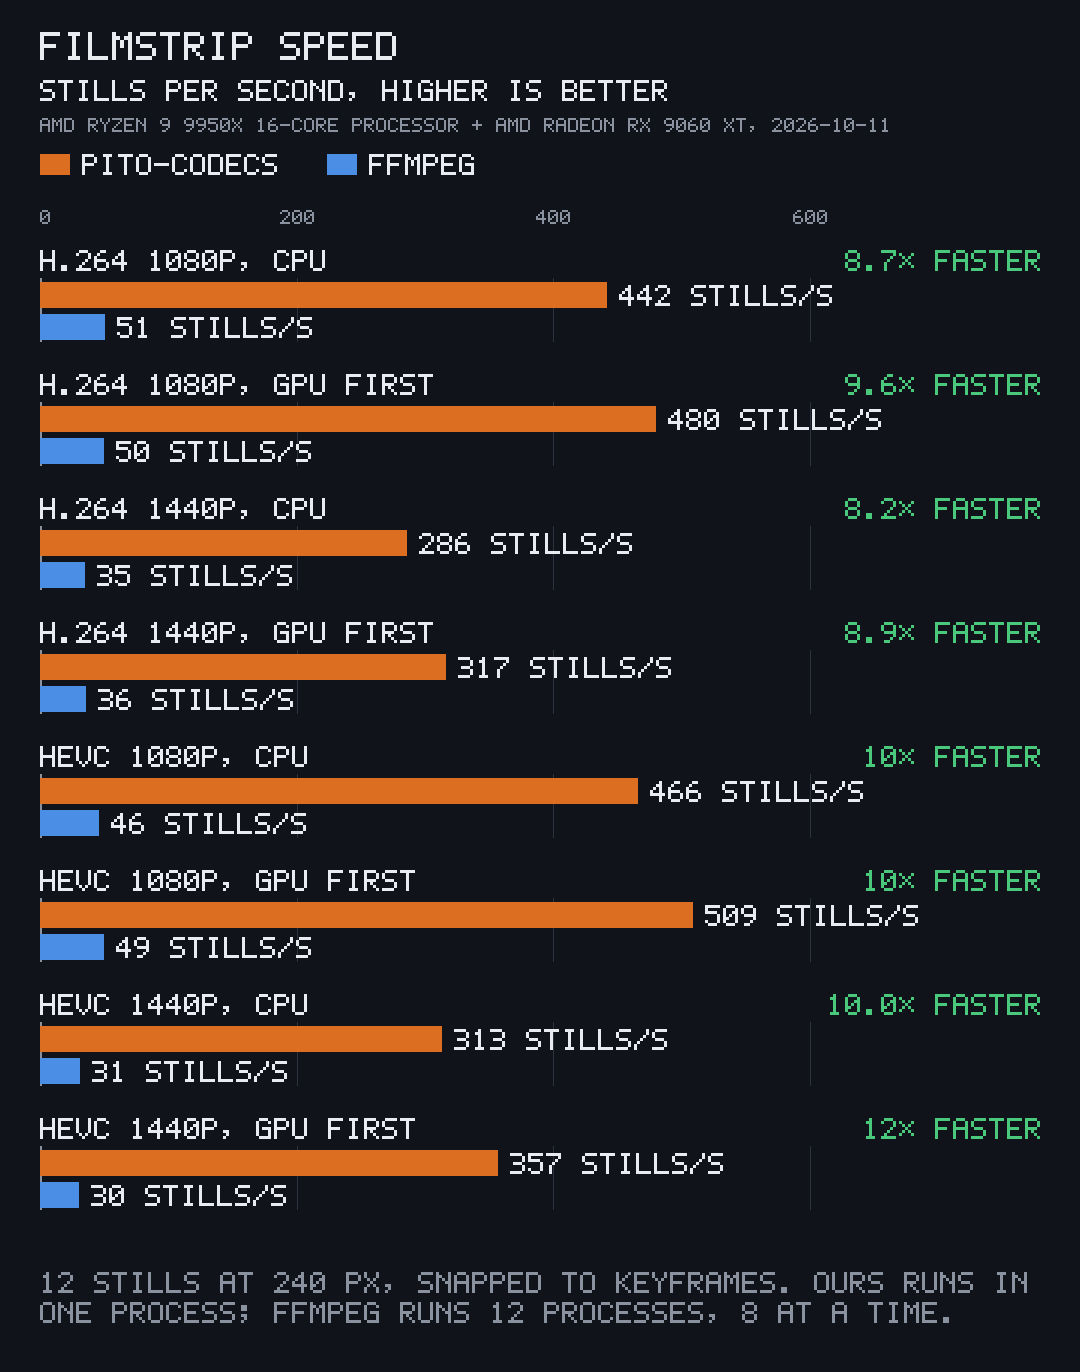
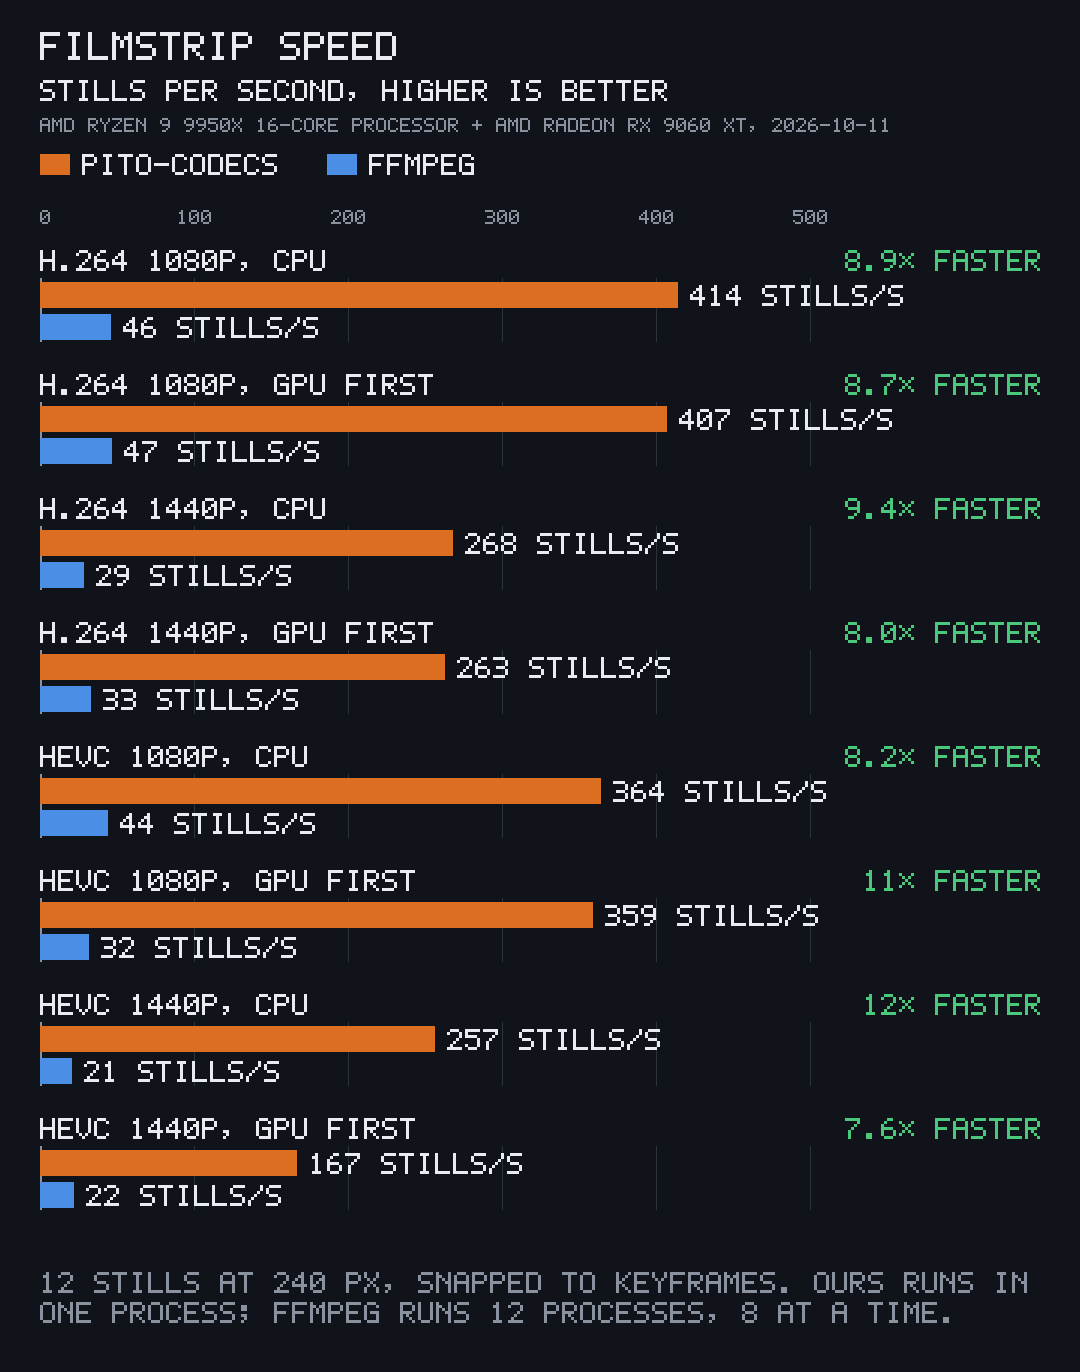
pito-codecs 1.0.1: one benchmark run on the merged lanes behind every chart, the table, Against ffmpeg and the Status

diff --git a/examples/bench.rs b/examples/bench.rs
@@ -1563,7 +1563,7 @@ fn mark(id: &str) -> &'static str {
     }
 }
 
-const X264_NOTE: &str = "* NOT LIKE FOR LIKE: LIBX264 RUNS HAND-WRITTEN ASSEMBLY, WHILE OUR CPU H.264 ENCODER IS RUST WITH NO HAND-WRITTEN SIMD YET.";
+const X264_NOTE: &str = "* NOT LIKE FOR LIKE: LIBX264 RUNS HAND-WRITTEN ASSEMBLY, WHILE OUR CPU H.264 ENCODER IS RUST WITH NO HAND-WRITTEN SIMD.";
 const CUT_NOTE: &str = "† NOT LIKE FOR LIKE: OUR EXPORT IS FRAME-ACCURATE; IT COPIES THE MIDDLE OF EACH PIECE AND RE-ENCODES THE FRAMES BETWEEN EACH CUT AND ITS NEAREST KEYFRAME (540 OF 780 FRAMES AT 1080P HERE). FFMPEG'S STREAM COPY ENCODES NOTHING AND CUTS ON KEYFRAMES, SO IT IS NOT FRAME-ACCURATE. FFMPEG'S RE-ENCODE IS FRAME-ACCURATE AND RE-ENCODES EVERY FRAME WITH LIBX264 VERYFAST, CRF 18.";
 
 fn strip(label: &str, word: &str) -> String {

diff --git a/README.md b/README.md
@@ -10,7 +10,7 @@ Works on Linux x86-64 and arm64, Windows x86-64 and macOS on Apple Silicon; CI t
 
 ## Status
 
-`v1.0.0`: every format below decodes and encodes, on Linux, Windows and macOS, and the API is settled. Opus speech encoding (SILK and hybrid) is marked experimental below: it decodes clean but doesn't sound as good as libopus.
+`v1.0.1`: every format below decodes and encodes, on Linux, Windows and macOS, and the API is settled. Opus speech encoding (SILK and hybrid) is marked experimental below: it decodes clean but doesn't sound as good as libopus.
 
 | Part | Decode | Encode |
 | --- | --- | --- |
@@ -33,21 +33,21 @@ Every number here comes from the one benchmark run that the Speed section descri
 
 Where pito-codecs is faster:
 
-- **Time to first frame:** 8.7× to 19.8× faster at 1440p, CPU or GPU (4.9 ms against 97.6 ms for H.264 on the CPU; ffmpeg's time includes starting its process).
-- **Filmstrip stills:** 8.2× to 11.7× faster.
-- **Smart-cut export against a full re-encode:** 1.6× to 1.7× faster, frame-accurate on both sides.
-- **GPU decode and encode (VA-API):** 1.1× to 1.2× faster on 9 of the 14 GPU rows, about the same on 5.
-- **Scaling:** 1.6× to 2.2× faster.
-- **Loudness (EBU R128):** 5.8× faster.
-- **AAC encode:** 1.7× faster.
+- **Time to first frame:** 7.4× to 21.5× faster at 1440p, CPU or GPU (4.1 ms against 87.4 ms for H.264 on the CPU; ffmpeg's time includes starting its process).
+- **Filmstrip stills:** 7.6× to 12.4× faster.
+- **Smart-cut export against a full re-encode:** 1.7× to 2.9× faster, frame-accurate on both sides.
+- **GPU decode and encode (VA-API):** 1.1× to 1.3× faster on 8 of the 14 GPU rows, about the same on 6.
+- **Scaling:** 1.7× to 2.6× faster.
+- **Loudness (EBU R128):** 5.7× faster.
+- **AAC encode:** 1.8× faster.
 
-Where ffmpeg still wins:
+Where ffmpeg wins:
 
-- **CPU H.264 decode:** ffmpeg is 1.3× to 1.7× faster (2540 against 1942 fps at 1080p, all threads).
-- **CPU HEVC decode:** on one thread about the same at 1080p, ours 1.1× faster at 1440p; on all threads ours 1.1× slower at 1080p, ours 1.5× slower at 1440p.
-- **CPU H.264 encode against x264:** libx264 is 1.5× to 3.3× faster (medium and veryfast presets).
-- **AAC decode:** ffmpeg is 1.7× faster.
-- **Smart-cut export against a stream copy:** ffmpeg's copy is 5.0× to 6.6× faster, but it encodes nothing and cuts only on keyframes, so it isn't frame-accurate.
+- **CPU H.264 decode:** ffmpeg is 1.3× to 1.5× faster (2551 against 1959 fps at 1080p, all threads).
+- **CPU HEVC decode:** about the same on one thread; on all threads ours is 1.1× slower at 1080p and 1.6× slower at 1440p.
+- **CPU H.264 encode against x264:** libx264 is 1.5× to 3.4× faster (medium and veryfast presets).
+- **AAC decode:** ffmpeg is 1.9× faster.
+- **Smart-cut export against a stream copy:** ffmpeg's copy is 5.8× to 6.0× faster, but it encodes nothing and cuts only on keyframes, so it isn't frame-accurate.
 - **Not in this run:** VP9 encode speed and Opus speech (SILK and hybrid) encode quality aren't benchmarked here; Opus speech encode is marked experimental.
 
 ## What it is
@@ -105,7 +105,7 @@ Add it as a git dependency at a tag, with the features you need (all are on by d
 
 ```toml
 [dependencies]
-pito-codecs = { git = "https://github.com/gmrdad82/pito-codecs", tag = "v1.0.0", default-features = false, features = ["h264", "mp4"] }
+pito-codecs = { git = "https://github.com/gmrdad82/pito-codecs", tag = "v1.0.1", default-features = false, features = ["h264", "mp4"] }
 ```
 
 | Feature | What it holds |
@@ -190,13 +190,13 @@ The front tries the GPU first and our own CPU code second, for every decode and 
 
 ## Speed
 
-Each pair below was measured back to back against the system ffmpeg on the same file, in one run on 2026-10-11 at commit `91d2582`:
+Each pair below was measured back to back against the system ffmpeg on the same file, in one run on 2026-10-11 at commit `415391d`:
 
 - **CPU:** AMD Ryzen 9 9950X (16 cores).
 - **GPU:** AMD Radeon RX 9060 XT on Mesa 26.2 radeonsi through VA-API, on Linux.
 - **ffmpeg:** 9.0.1.
 
-The input is 20 s of NASA's public-domain "A Message of Resilience from the International Space Station" (720p60), scaled to 1080p and 1440p and encoded with libx264 at CRF 20 and libx265 at CRF 23; the audio is NASA's public-domain solstice interview. The command is `pgpu run -- cargo run --release --example bench -- --runs 1`, which writes `tmp/bench/results.json` and every chart below; `--charts-only` redraws the charts from that file. The machine's load average was 6.09 at the start, so the absolute numbers are floors.
+The input is 20 s of NASA's public-domain "A Message of Resilience from the International Space Station" (720p60), scaled to 1080p and 1440p and encoded with libx264 at CRF 20 and libx265 at CRF 23; the audio is NASA's public-domain solstice interview. The command is `pgpu run -- cargo run --release --example bench -- --runs 1`, which writes `tmp/bench/results.json` and every chart below; `--charts-only` redraws the charts from that file. The machine was shared with other work (load average 4.5 at the start, up to 18 during the run), so the absolute numbers are floors; 17 rows that another GPU job disturbed (H.264 1080p VA-API encode, the filmstrips, the smart-cut exports and the scales) were measured again right after with `--only` into the same results file.
 
 ![Speed against ffmpeg, per job](docs/images/bench-speedup.png)
 
@@ -212,55 +212,55 @@ The chart above shows each job as times faster or slower than ffmpeg, on a log s
 
 | Job | pito-codecs | ffmpeg | pito-codecs is |
 | --- | --- | --- | --- |
-| H.264 1080p decode, CPU, 1 thread | 327 fps | 567 fps | 1.7× slower |
-| H.264 1080p decode, CPU, all threads | 1942 fps | 2540 fps | 1.3× slower |
-| HEVC 1080p decode, CPU, 1 thread | 456 fps | 435 fps | about the same |
-| HEVC 1080p decode, CPU, all threads | 1546 fps | 1729 fps | 1.1× slower |
-| H.264 1440p decode, CPU, 1 thread | 194 fps | 321 fps | 1.7× slower |
-| H.264 1440p decode, CPU, all threads | 1189 fps | 1609 fps | 1.4× slower |
-| HEVC 1440p decode, CPU, 1 thread | 260 fps | 244 fps | 1.1× faster |
-| HEVC 1440p decode, CPU, all threads | 825 fps | 1250 fps | 1.5× slower |
-| H.264 1080p decode, VA-API, frames stay on the GPU | 1150 fps | 1122 fps | about the same |
-| H.264 1080p decode, VA-API, frames read back | 842 fps | 711 fps | 1.2× faster |
-| HEVC 1080p decode, VA-API, frames stay on the GPU | 1202 fps | 1200 fps | about the same |
-| HEVC 1080p decode, VA-API, frames read back | 804 fps | 689 fps | 1.2× faster |
-| H.264 1440p decode, VA-API, frames stay on the GPU | 1140 fps | 1100 fps | about the same |
-| H.264 1440p decode, VA-API, frames read back | 513 fps | 480 fps | 1.1× faster |
-| HEVC 1440p decode, VA-API, frames stay on the GPU | 1163 fps | 1102 fps | 1.1× faster |
-| HEVC 1440p decode, VA-API, frames read back | 475 fps | 442 fps | 1.1× faster |
-| H.264 1080p encode, CPU, CRF 23, against libx264 medium * | 195 fps | 299 fps | 1.5× slower |
-| H.264 1080p encode, CPU, CRF 23, against libx264 veryfast * | 195 fps | 651 fps | 3.3× slower |
-| H.264 1080p encode, VA-API, QP 23 | 727 fps | 611 fps | 1.2× faster |
-| HEVC 1080p encode, VA-API, QP 23 | 843 fps | 698 fps | 1.2× faster |
-| H.264 1440p encode, CPU, CRF 23, against libx264 medium * | 126 fps | 184 fps | 1.5× slower |
-| H.264 1440p encode, CPU, CRF 23, against libx264 veryfast * | 127 fps | 393 fps | 3.1× slower |
-| H.264 1440p encode, VA-API, QP 23 | 422 fps | 369 fps | 1.1× faster |
-| HEVC 1440p encode, VA-API, QP 23 | 550 fps | 479 fps | 1.1× faster |
-| H.264 1440p GPU transcode, frames stay on the GPU | 316 fps | 305 fps | about the same |
-| HEVC 1440p GPU transcode, frames stay on the GPU | 385 fps | 376 fps | about the same |
-| H.264 1440p time to first frame, CPU (ffmpeg includes starting its process) | 4.9 ms | 97.6 ms | 19.8× faster |
-| H.264 1440p time to first frame, GPU (ffmpeg includes starting its process) | 10.8 ms | 94.1 ms | 8.7× faster |
-| HEVC 1440p time to first frame, CPU (ffmpeg includes starting its process) | 7.3 ms | 103.6 ms | 14.2× faster |
-| HEVC 1440p time to first frame, GPU (ffmpeg includes starting its process) | 10.7 ms | 96.1 ms | 8.9× faster |
-| H.264 1080p filmstrip, 12 stills at 240 px, CPU | 442 stills/s | 51 stills/s | 8.7× faster |
-| H.264 1080p filmstrip, 12 stills at 240 px, GPU first | 480 stills/s | 50 stills/s | 9.6× faster |
-| H.264 1440p filmstrip, 12 stills at 240 px, CPU | 286 stills/s | 35 stills/s | 8.2× faster |
-| H.264 1440p filmstrip, 12 stills at 240 px, GPU first | 317 stills/s | 36 stills/s | 8.9× faster |
-| HEVC 1080p filmstrip, 12 stills at 240 px, CPU | 466 stills/s | 46 stills/s | 10.2× faster |
-| HEVC 1080p filmstrip, 12 stills at 240 px, GPU first | 509 stills/s | 49 stills/s | 10.3× faster |
-| HEVC 1440p filmstrip, 12 stills at 240 px, CPU | 313 stills/s | 31 stills/s | 10.0× faster |
-| HEVC 1440p filmstrip, 12 stills at 240 px, GPU first | 357 stills/s | 30 stills/s | 11.7× faster |
-| Smart-cut export 1080p, 3 cuts, against ffmpeg re-encoding every frame (both frame-accurate) † | 15.2× real time | 9.6× real time | 1.6× faster |
-| Smart-cut export 1080p, 3 cuts, against ffmpeg's stream copy (keyframe cuts only, not frame-accurate) † | 15.2× real time | 75.5× real time | 5.0× slower |
-| Smart-cut export 1440p, 3 cuts, against ffmpeg re-encoding every frame (both frame-accurate) † | 10.2× real time | 5.8× real time | 1.7× faster |
-| Smart-cut export 1440p, 3 cuts, against ffmpeg's stream copy (keyframe cuts only, not frame-accurate) † | 10.2× real time | 66.7× real time | 6.6× slower |
-| Scale 1440p to 1080p, bicubic | 3298 fps | 1766 fps | 1.9× faster |
-| Scale 1440p to 720p, bicubic | 3868 fps | 2416 fps | 1.6× faster |
-| Scale 1080p to 720p, bicubic | 5971 fps | 2670 fps | 2.2× faster |
-| Scale 1080p to 1440p, bicubic | 4192 fps | 2474 fps | 1.7× faster |
-| AAC decode, 48 kHz stereo | 960× real time | 1606× real time | 1.7× slower |
-| AAC encode, 128 kbps stereo | 209× real time | 124× real time | 1.7× faster |
-| EBU R128 loudness, 48 kHz stereo | 2962× real time | 509× real time | 5.8× faster |
+| H.264 1080p decode, CPU, 1 thread | 376 fps | 558 fps | 1.5× slower |
+| H.264 1080p decode, CPU, all threads | 1959 fps | 2551 fps | 1.3× slower |
+| HEVC 1080p decode, CPU, 1 thread | 426 fps | 418 fps | about the same |
+| HEVC 1080p decode, CPU, all threads | 1479 fps | 1687 fps | 1.1× slower |
+| H.264 1440p decode, CPU, 1 thread | 195 fps | 286 fps | 1.5× slower |
+| H.264 1440p decode, CPU, all threads | 1089 fps | 1495 fps | 1.4× slower |
+| HEVC 1440p decode, CPU, 1 thread | 255 fps | 247 fps | about the same |
+| HEVC 1440p decode, CPU, all threads | 789 fps | 1231 fps | 1.6× slower |
+| H.264 1080p decode, VA-API, frames stay on the GPU | 1058 fps | 1023 fps | about the same |
+| H.264 1080p decode, VA-API, frames read back | 814 fps | 694 fps | 1.2× faster |
+| HEVC 1080p decode, VA-API, frames stay on the GPU | 1115 fps | 1068 fps | about the same |
+| HEVC 1080p decode, VA-API, frames read back | 795 fps | 677 fps | 1.2× faster |
+| H.264 1440p decode, VA-API, frames stay on the GPU | 1053 fps | 1011 fps | about the same |
+| H.264 1440p decode, VA-API, frames read back | 507 fps | 465 fps | 1.1× faster |
+| HEVC 1440p decode, VA-API, frames stay on the GPU | 1100 fps | 1049 fps | about the same |
+| HEVC 1440p decode, VA-API, frames read back | 471 fps | 428 fps | 1.1× faster |
+| H.264 1080p encode, CPU, CRF 23, against libx264 medium * | 191 fps | 328 fps | 1.7× slower |
+| H.264 1080p encode, CPU, CRF 23, against libx264 veryfast * | 184 fps | 626 fps | 3.4× slower |
+| H.264 1080p encode, VA-API, QP 23 | 645 fps | 499 fps | 1.3× faster |
+| HEVC 1080p encode, VA-API, QP 23 | 839 fps | 686 fps | 1.2× faster |
+| H.264 1440p encode, CPU, CRF 23, against libx264 medium * | 121 fps | 181 fps | 1.5× slower |
+| H.264 1440p encode, CPU, CRF 23, against libx264 veryfast * | 121 fps | 396 fps | 3.3× slower |
+| H.264 1440p encode, VA-API, QP 23 | 412 fps | 371 fps | 1.1× faster |
+| HEVC 1440p encode, VA-API, QP 23 | 545 fps | 476 fps | 1.1× faster |
+| H.264 1440p GPU transcode, frames stay on the GPU | 309 fps | 300 fps | about the same |
+| HEVC 1440p GPU transcode, frames stay on the GPU | 379 fps | 371 fps | about the same |
+| H.264 1440p time to first frame, CPU (ffmpeg includes starting its process) | 4.1 ms | 87.4 ms | 21.5× faster |
+| H.264 1440p time to first frame, GPU (ffmpeg includes starting its process) | 11.6 ms | 85.7 ms | 7.4× faster |
+| HEVC 1440p time to first frame, CPU (ffmpeg includes starting its process) | 8.1 ms | 106.3 ms | 13.1× faster |
+| HEVC 1440p time to first frame, GPU (ffmpeg includes starting its process) | 12.4 ms | 100.7 ms | 8.1× faster |
+| H.264 1080p filmstrip, 12 stills at 240 px, CPU | 414 stills/s | 46 stills/s | 8.9× faster |
+| H.264 1080p filmstrip, 12 stills at 240 px, GPU first | 407 stills/s | 47 stills/s | 8.7× faster |
+| H.264 1440p filmstrip, 12 stills at 240 px, CPU | 268 stills/s | 29 stills/s | 9.4× faster |
+| H.264 1440p filmstrip, 12 stills at 240 px, GPU first | 263 stills/s | 33 stills/s | 8.0× faster |
+| HEVC 1080p filmstrip, 12 stills at 240 px, CPU | 364 stills/s | 44 stills/s | 8.2× faster |
+| HEVC 1080p filmstrip, 12 stills at 240 px, GPU first | 359 stills/s | 32 stills/s | 11.4× faster |
+| HEVC 1440p filmstrip, 12 stills at 240 px, CPU | 257 stills/s | 21 stills/s | 12.4× faster |
+| HEVC 1440p filmstrip, 12 stills at 240 px, GPU first | 167 stills/s | 22 stills/s | 7.6× faster |
+| Smart-cut export 1080p, 3 cuts, against ffmpeg re-encoding every frame (both frame-accurate) † | 11.9× real time | 7.2× real time | 1.7× faster |
+| Smart-cut export 1080p, 3 cuts, against ffmpeg's stream copy (keyframe cuts only, not frame-accurate) † | 11.9× real time | 69.4× real time | 5.8× slower |
+| Smart-cut export 1440p, 3 cuts, against ffmpeg re-encoding every frame (both frame-accurate) † | 8.7× real time | 3.0× real time | 2.9× faster |
+| Smart-cut export 1440p, 3 cuts, against ffmpeg's stream copy (keyframe cuts only, not frame-accurate) † | 8.7× real time | 52.7× real time | 6.0× slower |
+| Scale 1440p to 1080p, bicubic | 2934 fps | 1430 fps | 2.1× faster |
+| Scale 1440p to 720p, bicubic | 2537 fps | 1221 fps | 2.1× faster |
+| Scale 1080p to 720p, bicubic | 4351 fps | 1695 fps | 2.6× faster |
+| Scale 1080p to 1440p, bicubic | 3459 fps | 2093 fps | 1.7× faster |
+| AAC decode, 48 kHz stereo | 1003× real time | 1861× real time | 1.9× slower |
+| AAC encode, 128 kbps stereo | 228× real time | 130× real time | 1.8× faster |
+| EBU R128 loudness, 48 kHz stereo | 3200× real time | 559× real time | 5.7× faster |
 
 \* libx264 is hand-written assembly; our CPU H.264 encoder has no hand-written SIMD. † Our export copies the middle of each piece and re-encodes only around each cut, so it is frame-accurate; a stream copy encodes nothing and cuts only on keyframes.
 
